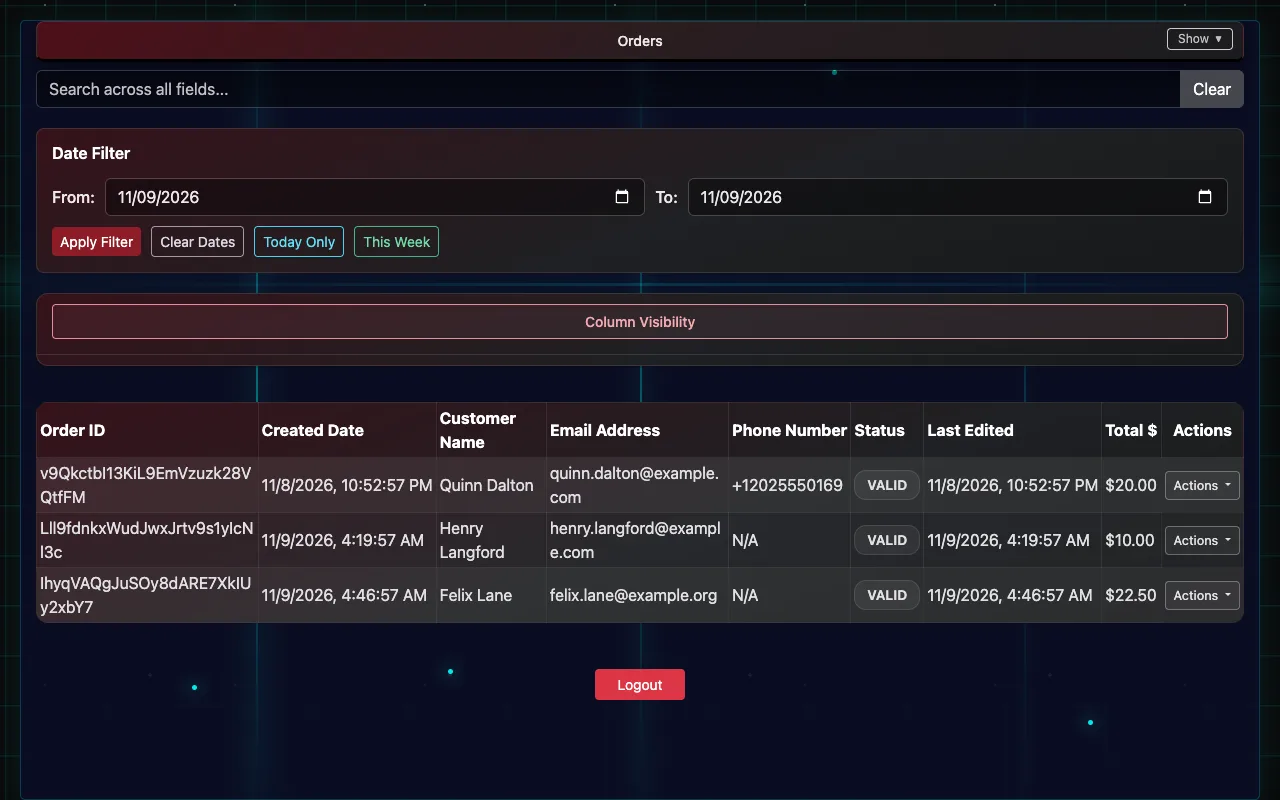
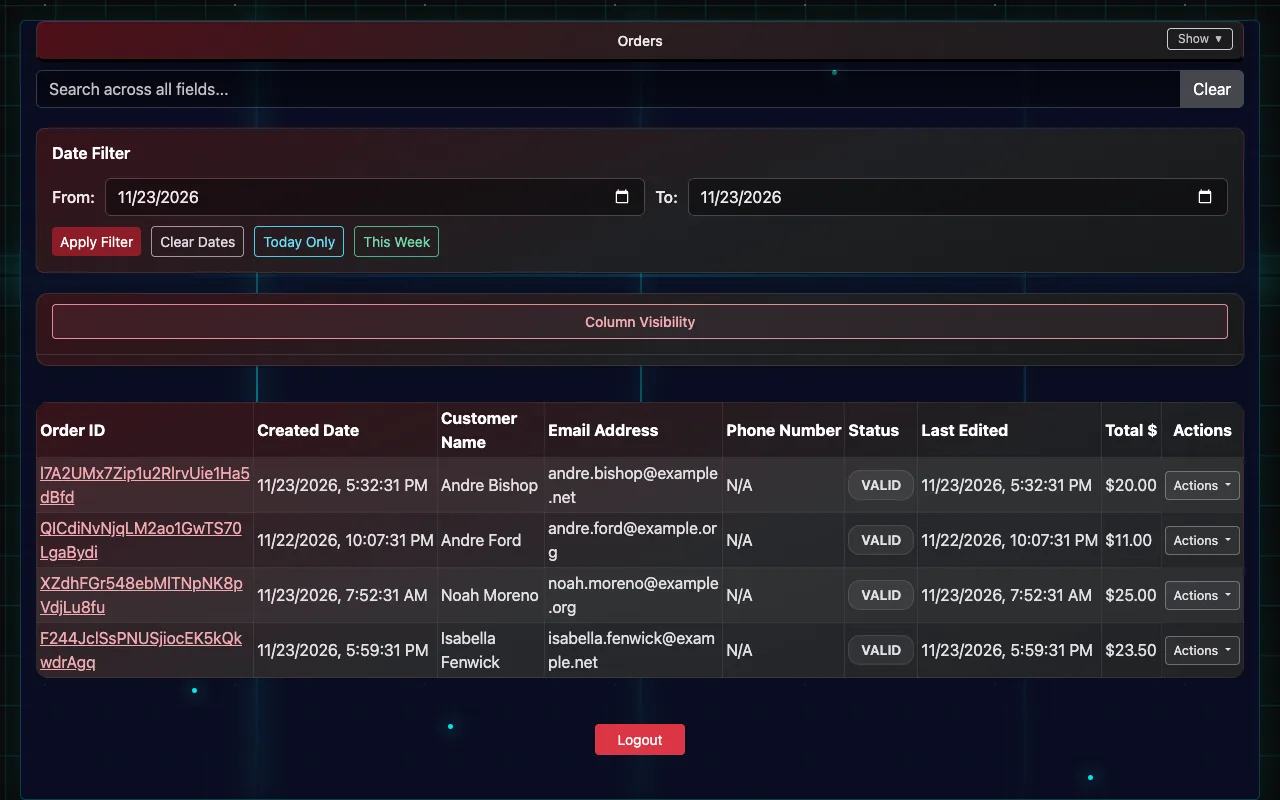
Help guide: Showtimes page, seats, editing and ending shows; Tickets order column fix (#46)
* Help guide: the Showtimes page, seats, editing and ending shows, ticket/order links

Guide pages 01, 04, 06, 09, 10 and 12 describe what shipped with native
events. The demo venue now has its shows on the Showtimes page (events,
ticket types, showtimes with room and held seats, links, ShowingID on
every ticket), and the screenshot script takes the Showtimes page and the
event details form.

* Tickets page: short order number in the Order column; new help screenshots

The Order column showed the whole 25-character Square order ID, which
can't wrap and squeezed every other column. It now shows the last 8
characters, with the full ID in the tooltip (search still matches it).
New screenshots: the Showtimes page and its event details form; retaken
Tickets and Orders. help/retake-with-demo-logins.sh reloads the demo venue
and takes screenshots with the demo's own passwords, never printing them.

diff --git a/QRScanner/src/public/products.js b/QRScanner/src/public/products.js
@@ -32,11 +32,18 @@ document.addEventListener('DOMContentLoaded', function() {
     function escapeLinkText(value) {
         return String(value ?? '').replace(/[&<>"']/g, c => ({ '&': '&amp;', '<': '&lt;', '>': '&gt;', '"': '&quot;', "'": '&#39;' }[c]));
     }
+    // Square order IDs are 25+ characters that can't wrap, which squeezed
+    // every other column, so the cell shows the last 8 (the full ID is in
+    // the tooltip, in search, and on the Orders page).
     function orderCell(order) {
         if (!order) return '<span class="text-muted">None</span>';
-        const number = escapeLinkText(order.number || order.id);
+        const full = String(order.number || order.id);
+        const short = full.length > 10 ? `…${full.slice(-8)}` : full;
         const canOpen = !window.HeaderLoader?.canAccessPage || window.HeaderLoader.canAccessPage('/order.html');
-        return canOpen ? `<a href="order.html?order=${encodeURIComponent(order.id)}" title="Open this order">${number}</a>` : number;
+        const title = escapeLinkText(`Order ${full}${canOpen ? ' (open it)' : ''}`);
+        return canOpen
+            ? `<a href="order.html?order=${encodeURIComponent(order.id)}" title="${title}" class="order-number-link">${escapeLinkText(short)}</a>`
+            : `<span title="${title}">${escapeLinkText(short)}</span>`;
     }
     // ---- END ORDER <-> TICKET LINKS ----
 

diff --git a/support/knowledge/04-adding-movies-and-events.md b/support/knowledge/04-adding-movies-and-events.md
@@ -1,6 +1,6 @@
 # Adding movies and events
 
-Add a show once and IndieTix creates the Square item for you: the ticket types, the prices and every showtime. It then sells at the register and online the same way. You need edit permission.
+Add a show once and IndieTix creates the Square item for you: the ticket types, the prices and every showtime. It then sells at the register and online the same way. After that, manage its showtimes, seats, name, description and poster on the **Showtimes** page; changes go to Square straight away. You need edit permission.
 
 ## Add a movie
 
@@ -11,8 +11,9 @@ Add a show once and IndieTix creates the Square item for you: the ticket types, 
 3. Pick the film from **Search Results**. Check its details: title, rating, runtime, cast and plot.
 4. Optionally **Upload Custom Poster** to replace the poster.
 5. Under **Add Showtimes**, pick the **Date**, **Time** and **Location** (a room from Client Settings → Event Locations), add any **Descriptors** (such as "Closed Caption" or "21+"), and choose **+ Add Showtime**. Repeat for every showtime.
+   - **Capacity** starts at the room's seats from Client Settings (blank means no limit); change it for this showtime if you like. **Held seats** (passes, guests) are taken off what can be sold. See [Seats and selling out](#seats-and-selling-out).
 6. Tick **Create event(s) in Google Calendar** if you use it (set up in Client Settings).
-7. Choose **Create Item in Square**. The message tells you it's done, and reminds you to set the item to pickup only on Square Online.
+7. Choose **Create Item in Square**. The message tells you it's done, reminds you to set the item to pickup only on Square Online, and links to **Manage its showtimes** on the Showtimes page.
 
 ## Add a live event
 
@@ -21,7 +22,7 @@ Add a show once and IndieTix creates the Square item for you: the ticket types, 
 1. Open **Event Info Entry**.
 2. Fill in the **Event Title** and **Description**, plus the performer and genre if you like, and optionally **Upload Event Poster**.
 3. Choose **Continue to Showtimes →**.
-4. Add each showtime as for a movie: **Date**, **Time**, **Location**, optional **Descriptors**, then **+ Add Showtime**.
+4. Add each showtime as for a movie: **Date**, **Time**, **Location**, optional **Descriptors**, **Capacity** and **Held seats**, then **+ Add Showtime**.
 5. Choose **Create Item in Square**.
 
 ## Ticket types and prices
@@ -32,14 +33,48 @@ New items get the ticket types listed in **Client Settings → Square Ticket Ite
 
 The same section sets the **Movie Distributor** and **Event Distributor** that new items are tagged with for box-office reports (blank means the venue's name).
 
-## Changing a show after it's created
+## The Showtimes page
 
-- **Prices, showtimes and descriptions** are changed in Square: edit the item there. Changing Client Settings only affects items created afterwards.
-- **Past showtimes** are removed automatically a few hours after they start, and when every showtime has passed the item is archived in Square. Archived items can be restored in Square if a run is extended.
+![The Showtimes page](images/showtimes.webp)
+
+Open **Showtimes** and pick a movie or event. The table lists each showtime with how many tickets are sold, its capacity, held seats, how many are still available, and whether it's on sale, sold out, past or cancelled. Tick **Include archived** to see shows with no upcoming showtimes.
+
+- **Add a showtime:** fill in the form under the table (**Date**, **Time**, **Room**, any extras, **Capacity** and **Held seats**) and choose **Add showtime**. It goes on sale in Square right away. Adding one to an archived show puts the show back on sale.
+- **Change a showtime:** choose **Change time** on its row to change the date, time, room or extras. This only works before any ticket is sold for it, because sold tickets show the old time; once one is sold, cancel it and add a new one instead.
+- **Change the seats:** choose **Seats** on its row. Capacity and held seats can change at any time, even after sales, but never to fewer than are already sold.
+- **Cancel a showtime:** choose **Cancel showtime**. It comes off sale online and at the register. **Tickets already sold are not refunded**: the message says how many there are, so you can refund them on **List Orders**. Cancelling a show's last upcoming showtime archives it in Square.
+
+## Edit or delete a movie or event
+
+![Editing a show's name, description and poster](images/event-details.webp)
+
+- **Name, description and poster:** on the Showtimes page, pick the show and choose **Edit name, description, poster**. The form shows what customers see now. Change what you need (choose an image file to replace the poster) and **Save**. The Square item changes too, so there's no need to edit it in Square. Tickets already sold keep the name they were bought under.
+- **Delete event:** a show nothing was ever sold for is deleted completely, in IndieTix and in Square. This can't be undone.
+- **End event:** once any ticket has been sold for a show, even one that was later refunded, the button says **End event** instead, so its sales history and reports are kept. Its upcoming showtimes come off sale and the item is archived in Square. **Nothing is refunded automatically**: the message says how many tickets for those showtimes need refunding on **List Orders**.
+- **Ticket types and prices** are still changed in Square (see [Variations are the ticket types](#how-a-ticket-item-is-built-in-square)). Changing Client Settings only affects items created afterwards.
+
+Make these changes on the Showtimes page rather than in Square. IndieTix checks every night for showtimes, names, descriptions or posters changed directly in Square; if it finds any, support may get in touch so the two can be put back in step.
+
+## Seats and selling out
+
+- Each room's seat count is set once in **Client Settings → Event Locations** (the **Seats** box next to each room). A new showtime starts with its room's seats as its capacity. Blank means no limit.
+- **Held seats** are seats you keep back (passes, guests, staff). Available = capacity − held seats − tickets sold.
+- To stop selling a showtime once it's full, tick **Stop selling a showtime when it's full** under Event Locations. A full showtime is then removed from Square online and at the register automatically, and goes back on sale if a refund or more seats free a place. Without it, capacity is only shown, never enforced.
+- Square's own stock counts are separate: they count per ticket type across every showtime, not per showtime.
+
+## Bring in shows already in Square
+
+Shows created before IndieTix had the Showtimes page (or made by hand in Square) can be brought in: on the Showtimes page choose **Bring in existing Square items**. It first shows what it would bring in (each show and its number of showtimes, and any showtimes already full) and asks before changing anything. Square isn't changed; IndieTix makes its own copy and links tickets already sold to their showtimes. Shows already brought in are skipped, so it's safe to run again.
+
+A show whose Square item shares its **Show Time** list with another item can't be brought in, because each showtime can belong to only one show. Its tickets still sell, email and scan as normal.
+
+## When showtimes pass
+
+**Past showtimes** are removed automatically a few hours after they start, and when every showtime has passed the item is archived in Square. To extend a run, add a showtime on the Showtimes page (tick **Include archived** to find the show).
 
 ## How a ticket item is built in Square
 
-Add Movie and Add Event build all of this for you. It's here for when someone needs to change an item by hand in Square, or make one from scratch.
+Add Movie and Add Event build all of this for you, and the Showtimes page changes it for you. It's here for when someone needs to change an item by hand in Square, or make one from scratch (then use **Bring in existing Square items** so it appears on the Showtimes page).
 
 **1. The item's custom attributes.** These are set on the item, in the custom attributes section of Square's item editor.
 - **UseQRCode** (yes/no): this is the switch. IndieTix only makes tickets for items where UseQRCode is turned on. If an item sells but no tickets go out, check this first.
@@ -56,7 +91,7 @@ Add Movie and Add Event build all of this for you. It's here for when someone ne
 **3. The "Show Time" modifier list holds the date and time.** Each item has its own modifier list named **Show Time**, set to require exactly one choice, so every sale picks a showtime. Each modifier is one showtime, priced at $0.
 - Write each showtime exactly like this: `Sun 01-18-2026 7:00 PM (Spacement)`. That's the day, the date as MM-DD-YYYY, the time with AM or PM, and the room in parentheses. Leave off the parentheses if the venue has one room.
 - IndieTix reads the date and time for the ticket, the door scanner and reports from this text, and the room from the parentheses. A typo in the date can put the wrong date on tickets, so copy an existing showtime and change only what differs.
-- To add a showtime, add a modifier to that item's Show Time list in the same format. To cancel one, remove its modifier, but refund anyone who already bought it, through IndieTix.
+- For a show on the Showtimes page, add and cancel showtimes there, not in Square. For an item made by hand that hasn't been brought in, add a modifier to its Show Time list in the same format, or remove one to cancel it (refund anyone who already bought it, through IndieTix).
 - Keep the list's name as Show Time, and give each item its own list. Don't share one list across items, because the cleanup works per list.
 
 **4. Cleanup.** A few hours after a showtime starts, IndieTix removes it from the list so it can't be sold. When every showtime on an item has passed, the list is removed and the item is archived in Square.

diff --git a/support/knowledge/12-troubleshooting.md b/support/knowledge/12-troubleshooting.md
@@ -18,6 +18,16 @@ Common problems at the box office and how to fix them.
 
 **Movie Info Lookup doesn't find anything.** It needs an OMDB API key in **Client Settings → API Configuration**. Try the title without "The", or add the year.
 
+**A showtime won't let me change its time.** A ticket has been sold for it, and that ticket shows the current time. Cancel the showtime and add a new one on the [Showtimes page](04-adding-movies-and-events.md#the-showtimes-page), then refund or transfer the affected tickets.
+
+**A show I made in Square isn't on the Showtimes page.** Choose **Bring in existing Square items** there. If it still isn't listed, its Show Time list is probably shared with another item ([Bring in shows already in Square](04-adding-movies-and-events.md#bring-in-shows-already-in-square)).
+
+**The Delete button says "End event".** Tickets have been sold for that show, so it can only be ended (taken off sale and archived), not deleted, to keep its sales history.
+
+**A showtime sold out but there are seats left.** Check its **Capacity** and **Held seats** on the Showtimes page, and the room's **Seats** in Client Settings → Event Locations. Raising the capacity puts it straight back on sale.
+
+**Support says a show was changed in Square.** Its showtimes, name, description or poster were changed directly in Square. Make the change on the Showtimes page instead, or undo it in Square.
+
 **Add Movie or Add Event says a Distributor choice is missing.** The name in **Client Settings → Square Ticket Items** isn't one of the Distributor attribute's choices in Square. Add the choice in Square and set it on the item.
 
 **A refund in Square didn't stop the ticket.** Refunds made in Square's own dashboard or app don't cancel IndieTix tickets. Use **Mark as Invalid** on the ticket, and refund through IndieTix next time.

diff --git a/support/knowledge/01-what-indietix-does.md b/support/knowledge/01-what-indietix-does.md
@@ -17,7 +17,7 @@ IndieTix is ticketing for independent cinemas, venues and promoters, built on Sq
 
 ## A night at the box office, start to finish
 
-1. **Add the show.** Staff add a movie or event once, with its showtimes ([Adding movies and events](04-adding-movies-and-events.md)). IndieTix creates the Square item.
+1. **Add the show.** Staff add a movie or event once, with its showtimes ([Adding movies and events](04-adding-movies-and-events.md)). IndieTix creates the Square item, and later changes happen on the [Showtimes page](04-adding-movies-and-events.md#the-showtimes-page).
 2. **Sell it.** Buyers pay through Square: online, at the register, or anywhere Square sells ([Selling tickets](03-selling-tickets.md)).
 3. **Deliver the ticket.** Within a minute or so the buyer gets a QR-code ticket by email, or by text if they've opted in.
 4. **Check people in.** Door staff scan tickets on a phone ([At the door](05-at-the-door.md)); [Today's Dashboard](05-at-the-door.md#todays-dashboard) shows sold and checked-in counts for each show.
@@ -37,6 +37,7 @@ IndieTix is ticketing for independent cinemas, venues and promoters, built on Sq
 | Insights | Questions about your sales in plain English | Admin permission |
 | Movie Info Lookup | Add a movie and its showtimes | Edit permission |
 | Event Info Entry | Add a live event and its showtimes | Edit permission |
+| Showtimes | Add, change, re-seat or cancel showtimes; edit or end a show | Edit permission |
 | Marketing Schedule | Plan and approve social and email posts | Marketing permission |
 | Email List | Marketing email subscribers | Marketing permission |
 | User Management | Staff accounts and permissions | Main login only |

diff --git a/support/knowledge/06-orders-refunds-and-resends.md b/support/knowledge/06-orders-refunds-and-resends.md
@@ -6,6 +6,13 @@ Finding an order, resending tickets, fixing contact details, refunds, cancellati
 
 **List Orders** shows every order, newest first: who bought, when, the total and its status, a page at a time (**Previous** and **Next**, and how many per page). Search by name, email, phone or order ID, filter by date (**Today Only**, **This Week**, or a range), and open **Order Details** to see the tickets on it. You need view or edit permission.
 
+## From a ticket to its order, and back
+
+- On **Manual Checkin / List Tickets**, the **Order** column links each ticket to its order on List Orders.
+- On **List Orders**, the order number links to all of that order's tickets.
+
+Either way a banner says what's shown; choose **Show all orders** or **Show all tickets** to go back to the full list.
+
 ![An order's Actions menu](images/order-actions.webp)
 
 ## Resend a ticket email
@@ -27,6 +34,7 @@ Only the buyer's name, email and phone can be changed on an order. Price and sho
 5. Choose **Process Refund**. Square returns the money to the buyer's card, the refunded tickets are refused at the door straight away, and the order shows who refunded it and why.
 
 - An order can only be refunded once.
+- Refunding, cancelling or deleting an order frees its seats. A showtime that had sold out goes back on sale (see [Seats and selling out](04-adding-movies-and-events.md#seats-and-selling-out)).
 - **Refund through IndieTix, not in Square's own dashboard or app.** A refund made in Square returns the money but doesn't stop the tickets working.
 
 ## Cancel or delete an order

diff --git a/demo-data/README.md b/demo-data/README.md
@@ -1,6 +1,6 @@
 # demo-data
 
-A made-up venue, **The Marquee** (a cinema with a live music room in fictional Riverton, KS), for showing IndieTix to people or trying it out: orders, tickets, customers, text opt-ins and sent-text logs, marketing posts, staff logins and box-office report data. By default it has 18 months of history, about 7,600 tickets, 4,400 orders and 2,150 customers, at least as busy as a real single-venue cinema. The size and kind of venue can be changed (below).
+A made-up venue, **The Marquee** (a cinema with a live music room in fictional Riverton, KS), for showing IndieTix to people or trying it out: orders, tickets, customers, text opt-ins and sent-text logs, marketing posts, staff logins, box-office report data, and the Showtimes page's shows (each title with its ticket types and showtimes, room seats, held seats and sold counts). By default it has 18 months of history, about 7,600 tickets, 4,400 orders and 2,150 customers, at least as busy as a real single-venue cinema. The size and kind of venue can be changed (below).
 
 Everyone in it is invented. Emails use the reserved `example.com`/`.org`/`.net` domains, phone numbers sit in the 555-0100 to 555-0199 range set aside for fiction, and IP addresses come from the documentation ranges, so nothing can reach a real inbox or phone. Repertory titles are public-domain films; the new releases, live acts and distributors are invented. The tests check all of this.
 

diff --git a/support/knowledge/README.md b/support/knowledge/README.md
@@ -14,7 +14,7 @@ Pages appear in file-name order. Each starts with one `#` title; `##` headings b
 | `01-what-indietix-does.md` | What IndieTix is, a night at the box office start to finish, the menu |
 | `02-getting-started.md` | Signing up, logging in, the first settings to fill in |
 | `03-selling-tickets.md` | Connect Square, where tickets sell, pickup only, what the buyer gets |
-| `04-adding-movies-and-events.md` | Add a movie or event step by step, ticket types, and how a ticket item is built in Square |
+| `04-adding-movies-and-events.md` | Add a movie or event step by step, the Showtimes page (showtimes, seats, edit / delete / end a show, bring in Square items), ticket types, and how a ticket item is built in Square |
 | `05-at-the-door.md` | Scanning, manual check-in, Today's Dashboard, skeleton keys, printing |
 | `06-orders-refunds-and-resends.md` | Resend, edit, refund, cancel, transfer, print an order |
 | `07-reports-and-insights.md` | Event Report, Insights, nightly distributor reports |

diff --git a/support/knowledge/10-settings-and-your-web-address.md b/support/knowledge/10-settings-and-your-web-address.md
@@ -14,7 +14,7 @@
 | Theater Settings | Names, logo and the box-office report details |
 | Square Ticket Items | Ticket types, prices and distributors for new movies and events |
 | Social Media Integration | Facebook, Instagram and TikTok accounts for marketing posts |
-| Event Locations | Your rooms or stages |
+| Event Locations | Your rooms or stages, each with its **Seats** (the starting capacity of a new showtime there), and **Stop selling a showtime when it's full** ([Seats and selling out](04-adding-movies-and-events.md#seats-and-selling-out)) |
 | Event Descriptors | Labels for showtimes, such as "Closed Caption" or "21+" |
 | User Names | The names in the refund form's "Processed By" list |
 | Ticket Settings | Ticket layout (portrait or landscape) |

diff --git a/support/knowledge/09-staff-and-permissions.md b/support/knowledge/09-staff-and-permissions.md
@@ -22,7 +22,7 @@ They log in with the venue's Client ID, their username and their password.
 |---|---|
 | Check-In | Ticket Scanner, Today's Dashboard, Manual Checkin / List Tickets |
 | View | The above, plus List Orders and Event Report |
-| Edit | The above, plus Movie Info Lookup, Event Info Entry and Box Office Reports |
+| Edit | The above, plus Movie Info Lookup, Event Info Entry, Showtimes (including editing, deleting and ending a show) and Box Office Reports |
 | Marketing | Marketing Schedule and Email List |
 | Admin | Insights |
 
